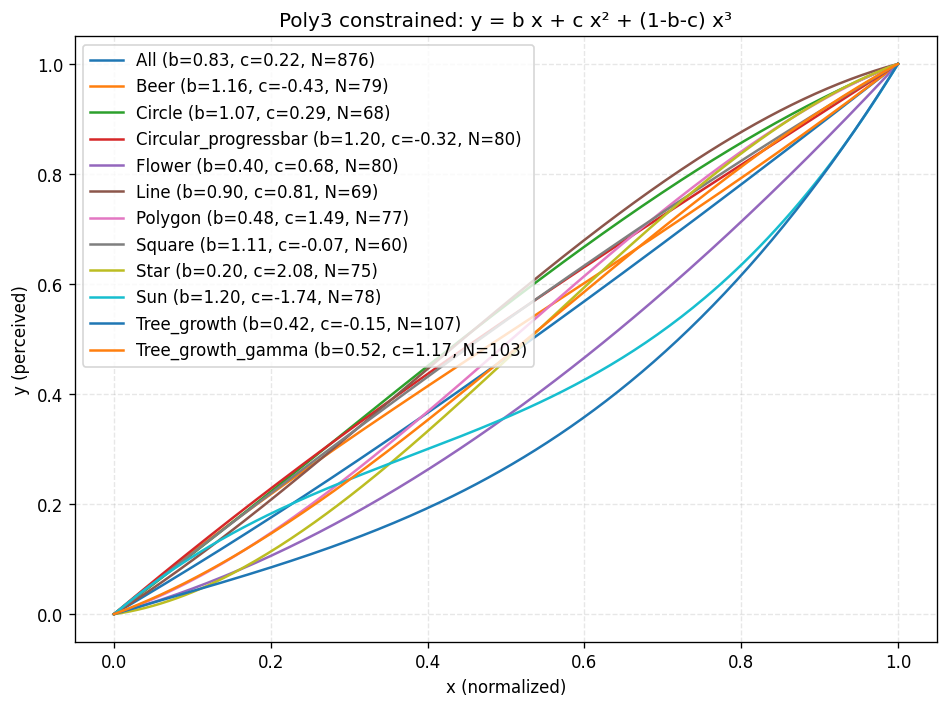
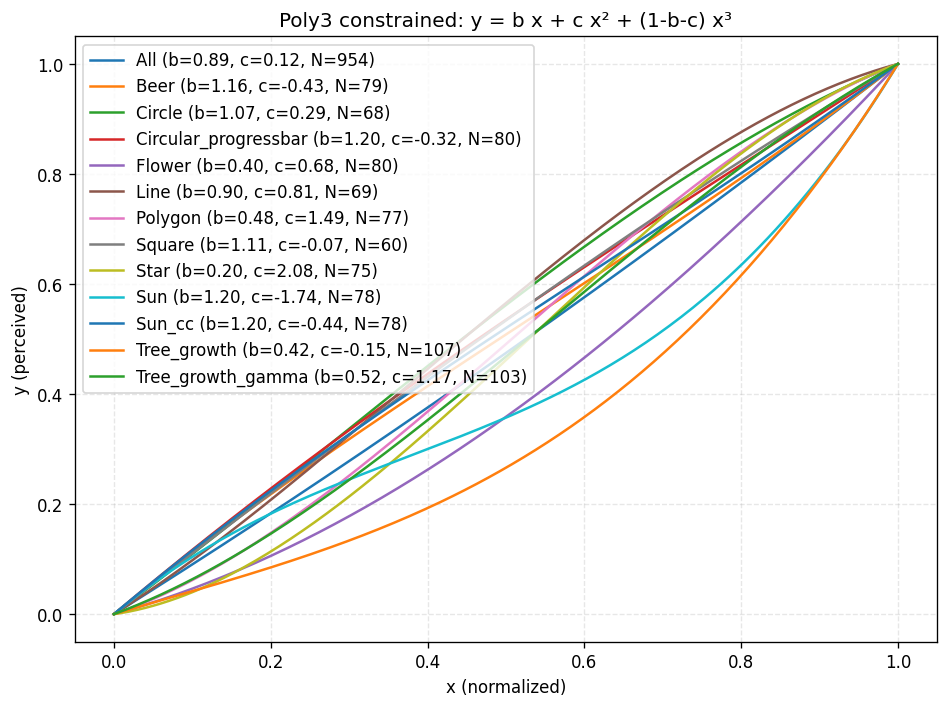
add polynomial correction for sun glyph

diff --git a/app/glyph_set.py b/app/glyph_set.py
@@ -4,6 +4,42 @@ import colorsys
 import numpy as np
 import random
 
+
+def inv_cubic_constrained(y, b_par, c_par, eps=1e-9):
+    y = np.atleast_1d(np.asarray(y, float)).ravel()
+    out = np.empty_like(y)
+
+    A = (1.0 - b_par - c_par)
+    B = c_par
+    C = b_par
+
+    def fval(xx):
+        return b_par*xx + c_par*xx**2 + (1.0-b_par-c_par)*xx**3
+
+    for i, yi in enumerate(y):
+        yi = float(np.clip(yi, 0.0, 1.0))
+
+        roots = np.roots([A, B, C, -yi])
+        real = roots[np.isreal(roots)].real.astype(float)
+
+        if real.size == 0:
+            xi = 0.0
+        else:
+            in01 = real[(real >= -eps) & (real <= 1.0 + eps)]
+
+            if in01.size > 0:
+                # kořeny v [0,1] – vyber ten, co nejlíp sedí (většinou stačí první, ale tohle je bezpečné)
+                cand = np.clip(in01, 0.0, 1.0)
+                xi = cand[np.argmin(np.abs(fval(cand) - yi))]
+            else:
+                # žádný kořen v [0,1] – fallback: vezmi kořen nejblíž intervalu a potom ho ořízni
+                xi = np.clip(real[np.argmin(np.minimum(np.abs(real - 0.0), np.abs(real - 1.0)))], 0.0, 1.0)
+
+        out[i] = np.clip(xi, 0.0, 1.0)
+
+    return out.reshape(y.shape)
+
+
 def horizontal_line(x: float, canvas:mg.Canvas) -> None:
     canvas.line((mg.lerp(x, canvas.xcenter, canvas.xleft), canvas.ycenter),    
                 (mg.lerp(x, canvas.xcenter, canvas.xright), canvas.ycenter),   
@@ -585,12 +621,27 @@ def ui_to_x(u, gamma):
 
 GAMMA = 1.469
 
+B = 1.2
+C = -1.902
+
 def tree_growth_gamma(u: float, canvas: mg.Canvas) -> None:
     # u = "UI hodnota" 0..100 nebo 1..100 (podle toho co používáš)
     # převedeme na fyzické x
     p = max(0.0, min(1.0, u / 100.0))
     x = 100.0 * (p ** (1.0 / GAMMA))
     tree_growth(x, canvas)
+
+
+def ui_to_x_cc(u: float, b_par: float, c_par: float) -> float:
+    u = max(1, min(100, int(round(u))))
+    p = (u - 1) / 99.0               # 0..1
+    x01 = float(inv_cubic_constrained(p, b_par, c_par)[0])  # 0..1
+    return 100.0 * x01               # 0..100 pro mglyph
+
+
+def sun_graph_cc(u: float, canvas: mg.Canvas) -> None:
+    x = ui_to_x_cc(u, B, C)
+    sun_graph(x, canvas)
 
 
 SIMPLE_GLYPHS = {
@@ -603,11 +654,12 @@ SIMPLE_GLYPHS = {
 
 ADVANCED_GLYPHS = {
     #"sun": sun_graph,
-    "tree_growth": tree_growth,
+    #"tree_growth": tree_growth,
     #"flower": flower,
     #"circular_progressbar": circular_progressbar_ticks_color,
     #"beer": beer_glyph,
     #"candle": candle_glyph,
     #"ripple_wave": ripple_wave_glyph,
-    "tree_growth_gamma": tree_growth_gamma,
+    #"tree_growth_gamma": tree_growth_gamma,
+    "sun_cc": sun_graph_cc,
 }

diff --git a/app/app.py b/app/app.py
@@ -9,12 +9,12 @@ from glyph_set import SIMPLE_GLYPHS, ADVANCED_GLYPHS
 
 SEED = None
 random.seed(SEED)
-N = 27 # pocet opakovani kazdeho glyphu
+N = 78 # pocet opakovani kazdeho glyphu
 
 PATH = os.path.dirname(os.path.abspath(""))
 print(PATH)
 
-EXPERIMENTAL_OUTPUT_DIR = os.path.join(PATH, "data/user_data_sets/")
+EXPERIMENTAL_OUTPUT_DIR = os.path.join(PATH, "BP/data/user_data_sets/")
 
 # ZDE MUZE BYT VOLBA MEZI SIMPLE A ADVANCED GLYPHS
 USE_ADVANCED = True 
